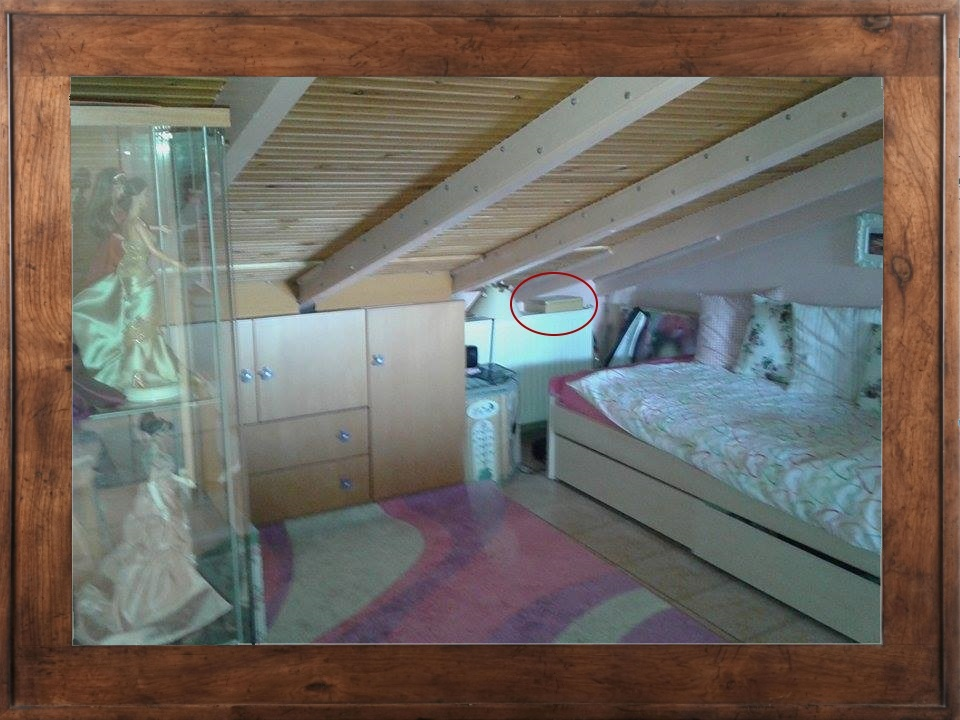
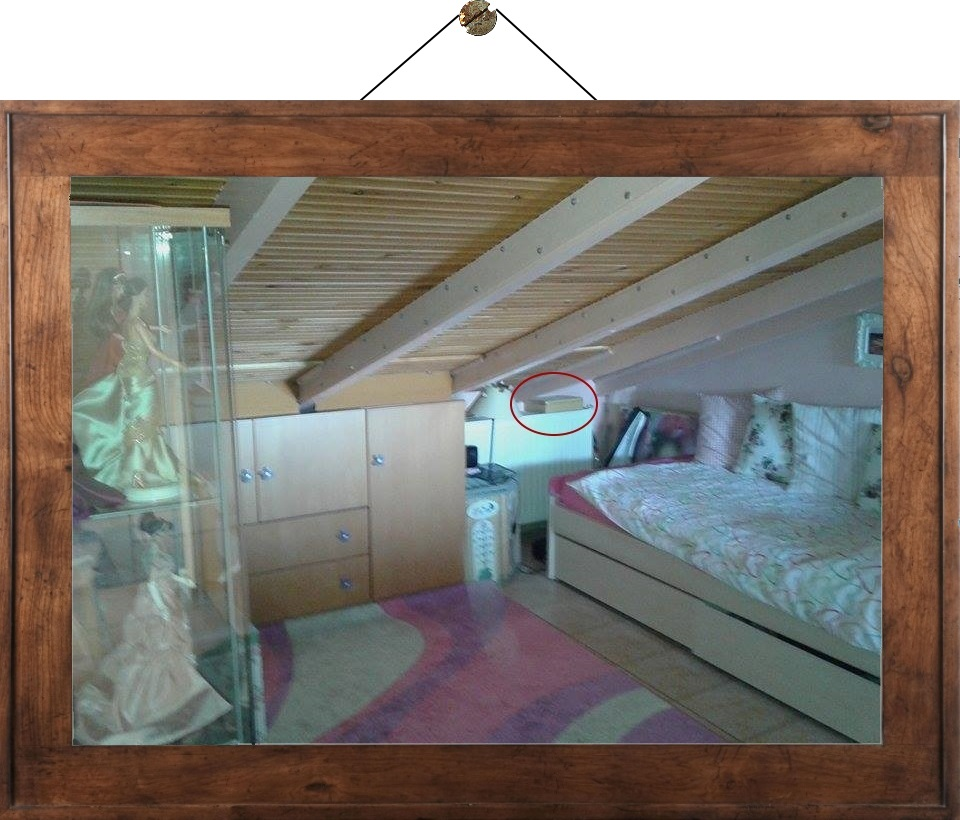
finished project: Danae

diff --git a/index.html b/index.html
@@ -18,12 +18,13 @@
 	    <link href="" rel="stylesheet">
  	 </head>
 
-  	<body>
+  	<body style="border: 1px solid black; background: url(photos/wood.jpg)">
 
-  		<div class="col-md-12" style="border: 1px solid black; background: url(photos/wood.jpg)">.
-  			<img src="photos/letter.png" style="width: 800px; position: relative; left: 25%;">
-  			<img src="photos/room.jpg">
+  		<div class="col-md-12">
+  			<img src="photos/letter1.png" style="width: 800px; position: relative; left: 30%;">
+  		
   		</div>
+  			<img src="photos/room1.png" style="position: relative; left: 16%;">
   		
 	    <!-- Bootstrap core JavaScript
 	    ================================================== -->
